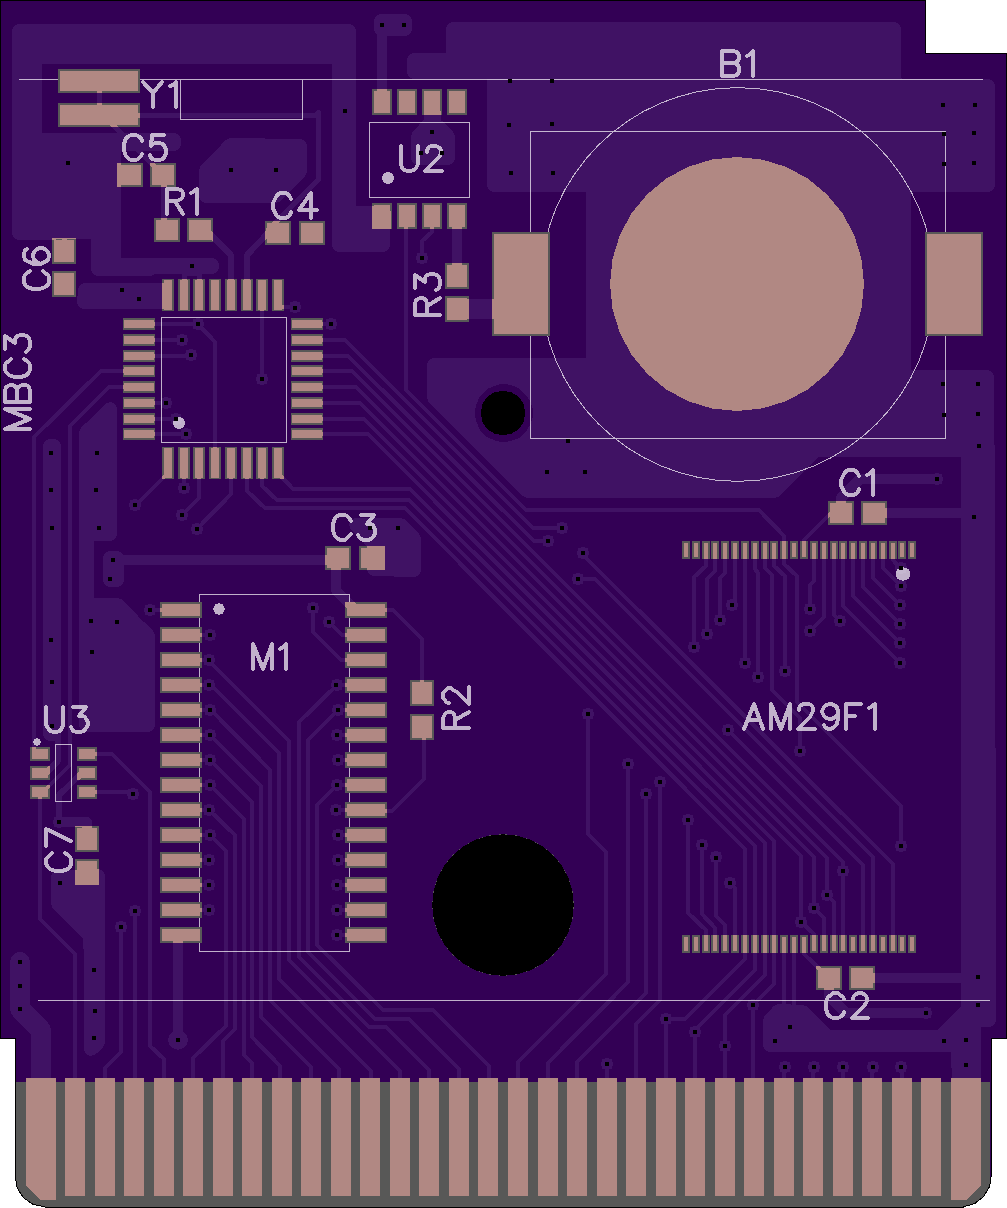
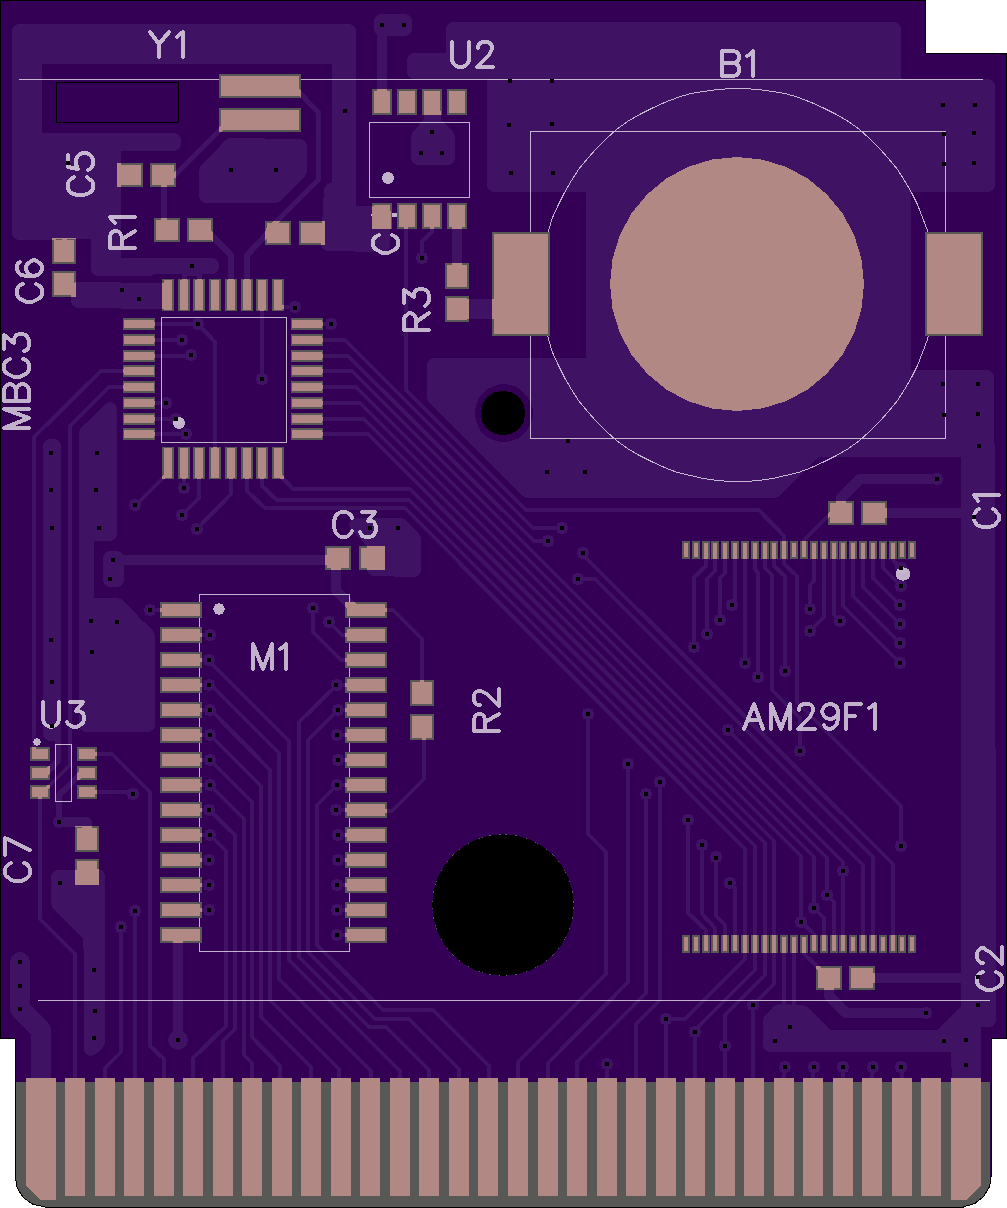
Update pictures and readme

diff --git a/readme.md b/readme.md
@@ -1,6 +1,6 @@
 ## Changes from the original
 - Resistors and capacitors are 0603 not 1206 to make the carts cheaper.
-- Added cutout for Y1 like real carts have
+- Added cutout for Y1 like real cartridges have.
 
 [Purchase on OSHPARK](https://oshpark.com/shared_projects/BHZky7nH)
 
